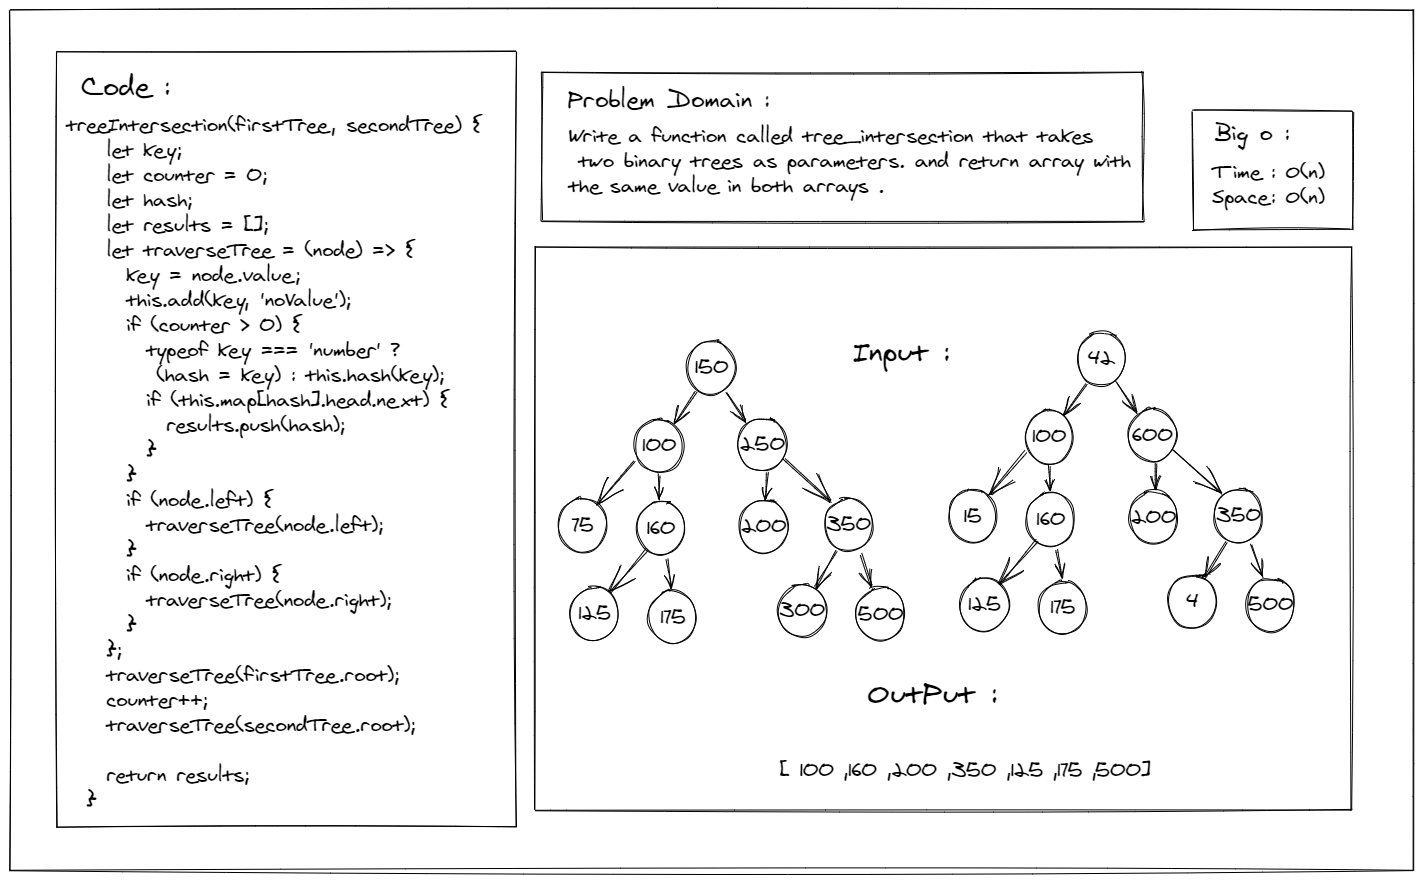
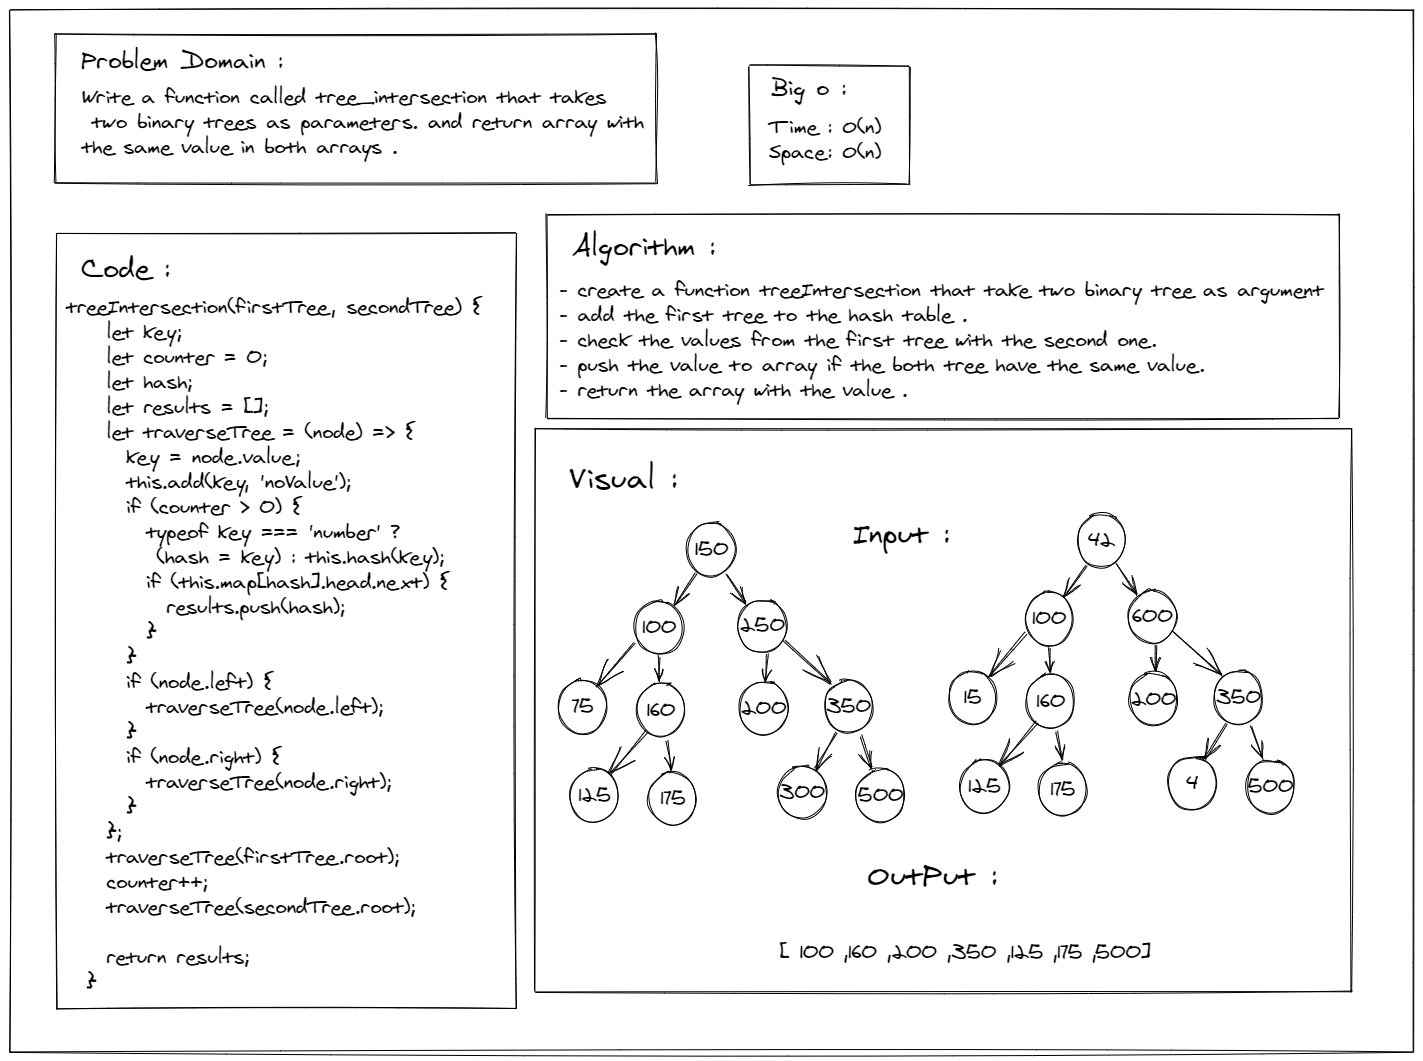
32

diff --git a/javascript/401-code-challenges/hashed/hashtable/hashtable.js b/javascript/401-code-challenges/hashed/hashtable/hashtable.js
@@ -1,41 +1,49 @@
 'use strict';
 const LinkedList =require('./linked-list');
 
-class HashTable {
+class HashMap {
   constructor(size) {
     this.size = size;
-    this.table = new Array(size);
+    this.map = new Array(size);
   }
-  hash(key) {
-    const sum = key.split('').reduce((acc, v) => acc + v.charCodeAt(0), 0);
-    return (sum * 19) % this.size;
-  }
-  set(key, value) {
-    const hashed = this.hash(key);
+  add(key, value) {
+    const hash = this.hash(key);
     const entry = { [key]: value };
-    if (!this.table[hashed]) {
-      this.table[hashed] = new LinkedList();
+    if (!this.map[hash]) {
+      this.map[hash] = new LinkedList();
     }
-    this.table[hashed].add(entry);
+
+    this.map[hash].append(entry);
   }
   get(key) {
-    const hashed = this.hash(key);
-    if (!this.table[hashed]) return null;
-    return this.table[hashed].getValue(key);
+    let hash = this.hash(key);
+    if (!this.map[hash]) return null;
+    let i = this.map[hash];
+    let temp = i.head;
+    if (!temp) return 'null';
+    if (temp.value[key]) return temp.value[key];
+    while (temp.next) {
+      temp = temp.next;
+      if (temp.value[key]) return temp.value[key];
+    }
   }
-  includes(key) {
-    const hashed = this.hash(key);
-    if (!this.table[hashed]) return false;
-    return this.table[hashed].includes(key);
+  contain(key) {
+    let hash = this.hash(key);
+    if (!this.map[hash]) return false;
+    let i = this.map[hash];
+    let temp = i.head;
+    if (!temp) return false;
+    if (temp.value[key]) return true;
+
+    while (temp.next) {
+      temp = temp.next;
+      if (temp.value[key]) return true;
+    }
+  }
+  hash(key) {
+    const assciSum = key.split('').reduce((p, n) => p + n.charCodeAt(0), 0);
+    const withPrime = assciSum * 599;
+    return withPrime % this.size;
   }
 }
-
-const hashTable = new HashTable(1024);
-hashTable.set('one', '1');
-hashTable.set('two', '2');
-hashTable.set('three', '3');
-hashTable.set('lemon', 'not-water');
-hashTable.set('melon', 'water');
-
-
-module.exports = HashTable;
+module.exports = HashMap;

diff --git a/javascript/401-code-challenges/hashed/hashtable/__test__/hashtable.test.js b/javascript/401-code-challenges/hashed/hashtable/__test__/hashtable.test.js
@@ -4,38 +4,30 @@
 const HashTable = require('../hashtable');
 
 describe('HashTable Works Super Fine', () => {
-  let hashTable;
-  beforeEach(() => {
-    hashTable = new HashTable(1024);
-    hashTable.set('one', '1');
+
+  it('Adding a key/value to your hashtable results in the value being in the data structure ', () => {
+    let hashtable = new HashTable(1024);
+    let expected = 'essam';
+    hashtable.add('name', 'essam');
+
+    expect(hashtable.contain('name')).toBe(true);
+    expect(hashtable.get('name')).toEqual('essam');
   });
 
-  test(' handles collision', () => {
-    hashTable.set('melon', 'water');
-    hashTable.set('lemon', 'not-water');
-    const index = hashTable.hash('melon');
-    expect(hashTable.table[index].root.value).toEqual({'melon': 'water'});
-    expect(hashTable.table[index].root.next.value).toEqual({'lemon': 'not-water'});
+  it('Retrieving based on a key returns the value stored', () => {
+    let hashtable = new HashTable(1024);
+    let expected = 'essam';
+    hashtable.add('name', 'essam');
+    expect(hashtable.contain('name')).toBe(true);
+    expect(hashtable.get('name')).toEqual(expected);
   });
 
-
-  test(' returns values of keys in case of collision', () => {
-    hashTable.set('melon', 'water');
-    hashTable.set('lemon', 'not-water');
-
-    expect(hashTable.get('melon')).toEqual('water');
-    expect(hashTable.get('lemon')).toEqual('not-water');
-  });
-
-
-  test(' returns true if keys exist in case of collision', () => {
-    hashTable.set('melon', 'water');
-    hashTable.set('lemon', 'not-water');
-    hashTable.set('molen', 'not-a-word');
-
-    expect(hashTable.includes('melon')).toEqual(true);
-    expect(hashTable.includes('lemon')).toEqual(true);
-    expect(hashTable.includes('molen')).toEqual(true);
+  it('Successfully hash a key to an in-range value',()=>{
+    let hashtable = new HashTable(8);
+    let min=1;
+    let max=10;
+    let key='essam';
+    expect(hashtable.hash(key)).toBeGreaterThanOrEqual(min);
+    expect(hashtable.hash(key)).toBeLessThanOrEqual(max);
   });
 });
-

diff --git a/javascript/401-code-challenges/hashed/hashtable/linked-list.js b/javascript/401-code-challenges/hashed/hashtable/linked-list.js
@@ -3,45 +3,50 @@ const Node = require('./Node');
 
 class LinkedList {
   constructor() {
-    this.root = null;
-    this.length = 0;
+    this.head = null;
   }
 
-  add(value) {
+  insert(value) {
     const node = new Node(value);
-    if (!this.root) {
-      this.root = node;
-      this.length++;
-    } else {
-      let current = this.root;
-      while (current.next) {
-        current = current.next;
-      }
-      current.next = node;
-      this.length++;
+    if (this.head) {
+      node.next = this.head;
     }
-  }
-
-  getValue(value) {
-    let current = this.root;
-    for (let i = 0; i < this.length; i++) {
-      if (current.value[value]) {
-        return current.value[value];
-      }
-      current = current.next;
-    }
-    return null;
+    this.head = node;
   }
 
   includes(value) {
-    let current = this.root;
-    for (let i = 0; i < this.length; i++) {
-      if (current.value[value]) {
-        return true;
+    let result = false;
+    let nodes = this.head;
+    while (nodes) {
+      if (nodes.value === value) {
+        return (result = true);
       }
-      current = current.next;
+      nodes = nodes.next;
     }
-    return false;
+    return result;
+  }
+  append(value) {
+    let newNode = new Node(value);
+    if (!this.head) {
+      this.head = newNode;
+    }
+    else {
+      let currentN = this.head;
+      while (currentN.next) {
+        currentN = currentN.next;
+      }
+      currentN.next = newNode;
+    }
+  }
+  toString() {
+    let string = "";
+    let temNode = this.head;
+    while (temNode) {
+      string += `{ ${temNode.value} } -> `;
+      temNode = temNode.next;
+    }
+    string += `NULL`;
+    return string;
   }
 }
 

diff --git a/javascript/401-code-challenges/hashed/hashtable/README.md b/javascript/401-code-challenges/hashed/hashtable/README.md
@@ -1,0 +1,8 @@
+# Hashed Tabel : 
+- hashed Tabel : Hash Table is a data structure which stores data in an associative manner. In a hash table, data is stored in an array format, where each data value has its own unique index value. Access of data becomes very fast if we know the index of the desired data. 
+
+# Challenge: 
+- Implement a Hashtable. 
+
+# test :
+![test](test-code30.png)

diff --git a/javascript/401-code-challenges/hashed/README.md b/javascript/401-code-challenges/hashed/README.md
@@ -1,0 +1,9 @@
+# hashed tabel : 
+
+
+|   | Table of Contents  |
+|:-:| :---               |
+| 1-| [hashtable](/javascript/401-code-challenges/hashed/hashtable)|
+| 2-| [repeted Word](/javascript/401-code-challenges/hashed/repetedWord/code31.png)|
+| 3-| [tree intersection](/javascript/401-code-challenges/hashed/treeIntersection/code32.png)|
+
